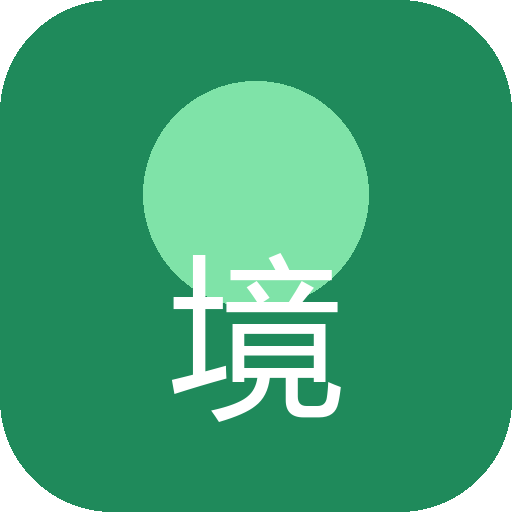
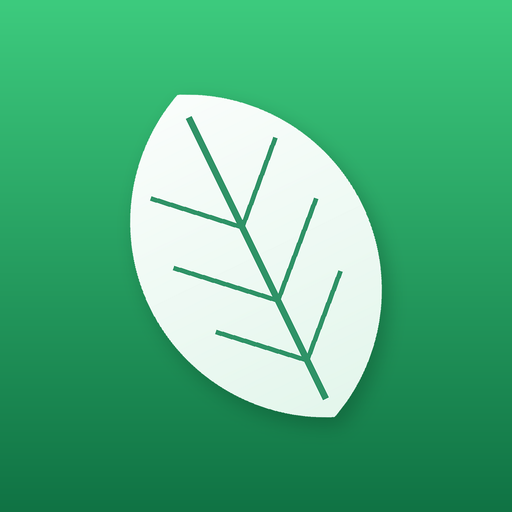
重做App图标：绿色渐变+叶脉叶片, 更精致, 缓存v13

diff --git a/sw.js b/sw.js
@@ -1,5 +1,5 @@
 /* 环境百词斩 service worker — 离线缓存 */
-var CACHE = "hj-cache-v12";
+var CACHE = "hj-cache-v13";
 var ASSETS = [
   "./",
   "./index.html",

diff --git a/scripts/make_icon.py b/scripts/make_icon.py
@@ -1,0 +1,84 @@
+# -*- coding: utf-8 -*-
+"""生成 App 图标: 绿色渐变 + 带叶脉的叶片。高分辨率绘制后缩小, 抗锯齿。
+输出 icons/icon-512.png, icon-192.png (满版方形, 适配 maskable)。
+"""
+import os, math
+from PIL import Image, ImageDraw, ImageChops, ImageFilter
+
+ROOT = os.path.dirname(os.path.dirname(os.path.abspath(__file__)))
+IC = os.path.join(ROOT, "icons")
+S = 1024  # 超采样画布
+
+
+def lerp(a, b, t):
+    return tuple(int(a[i] + (b[i] - a[i]) * t) for i in range(3))
+
+
+def vgrad(size, top, bot):
+    img = Image.new("RGB", (size, size))
+    px = img.load()
+    for y in range(size):
+        c = lerp(top, bot, y / (size - 1))
+        for x in range(size):
+            px[x, y] = c
+    return img
+
+
+def main():
+    cx = cy = S / 2
+    bg = vgrad(S, (0x3D, 0xCB, 0x7E), (0x10, 0x73, 0x44))   # 清新→深绿
+
+    # 柔光圆(增加层次)
+    glow = Image.new("L", (S, S), 0)
+    ImageDraw.Draw(glow).ellipse([S*0.16, S*0.12, S*0.84, S*0.80], fill=40)
+    glow = glow.filter(ImageFilter.GaussianBlur(S*0.06))
+    bg = Image.composite(Image.new("RGB", (S, S), (255, 255, 255)), bg, glow.point(lambda v: v))
+    bg = vgrad(S, (0x3D, 0xCB, 0x7E), (0x10, 0x73, 0x44))   # 重置(保持纯净渐变)
+
+    # ---- 叶片(竖直, 两段二次曲线= vesica) ----
+    R, off = S*0.38, S*0.15
+    cA = Image.new("L", (S, S), 0); ImageDraw.Draw(cA).ellipse([cx-off-R, cy-R, cx-off+R, cy+R], fill=255)
+    cB = Image.new("L", (S, S), 0); ImageDraw.Draw(cB).ellipse([cx+off-R, cy-R, cx+off+R, cy+R], fill=255)
+    leafmask = ImageChops.darker(cA, cB)
+
+    # 白色(略带薄荷)渐变填充
+    white = vgrad(S, (255, 255, 255), (223, 245, 233)).convert("RGBA")
+    leaf = Image.new("RGBA", (S, S), (0, 0, 0, 0))
+    leaf = Image.composite(white, leaf, leafmask)
+
+    # 叶脉(柔绿)
+    veins = Image.new("RGBA", (S, S), (0, 0, 0, 0))
+    vd = ImageDraw.Draw(veins)
+    g = (31, 138, 91, 235)
+    midw = int(S*0.013)
+    vd.line([(cx, cy-S*0.30), (cx, cy+S*0.31)], fill=g, width=midw)   # 主脉
+    for t, ln in [(0.16, 0.135), (0.02, 0.155), (-0.13, 0.135)]:
+        my = cy + t*S
+        vd.line([(cx, my+ln*S*0.5), (cx-ln*S, my-ln*S*0.45)], fill=g, width=int(S*0.0095))
+        vd.line([(cx, my+ln*S*0.5), (cx+ln*S, my-ln*S*0.45)], fill=g, width=int(S*0.0095))
+    # 叶脉裁剪到叶内
+    veins.putalpha(ImageChops.darker(veins.getchannel("A"), leafmask))
+    leaf = Image.alpha_composite(leaf, veins)
+
+    # 旋转, 让叶尖朝右上, 更有生气
+    leaf = leaf.rotate(26, resample=Image.BICUBIC, center=(cx, cy))
+
+    # 叶片柔和投影
+    sh = leaf.getchannel("A").point(lambda v: int(v*0.35))
+    shadow = Image.new("RGBA", (S, S), (8, 60, 35, 0)); shadow.putalpha(sh)
+    shadow = shadow.filter(ImageFilter.GaussianBlur(S*0.018))
+    shadow = ImageChops.offset(shadow, int(S*0.012), int(S*0.018))
+
+    out = bg.convert("RGBA")
+    out = Image.alpha_composite(out, shadow)
+    out = Image.alpha_composite(out, leaf)
+
+    for sz in (512, 192):
+        out.convert("RGB").resize((sz, sz), Image.LANCZOS).save(os.path.join(IC, "icon-%d.png" % sz))
+    # 预览大图
+    out.convert("RGB").resize((256, 256), Image.LANCZOS).save(os.path.join(ROOT, "_icon_preview.png"))
+    print("wrote icon-512.png / icon-192.png")
+
+
+if __name__ == "__main__":
+    main()